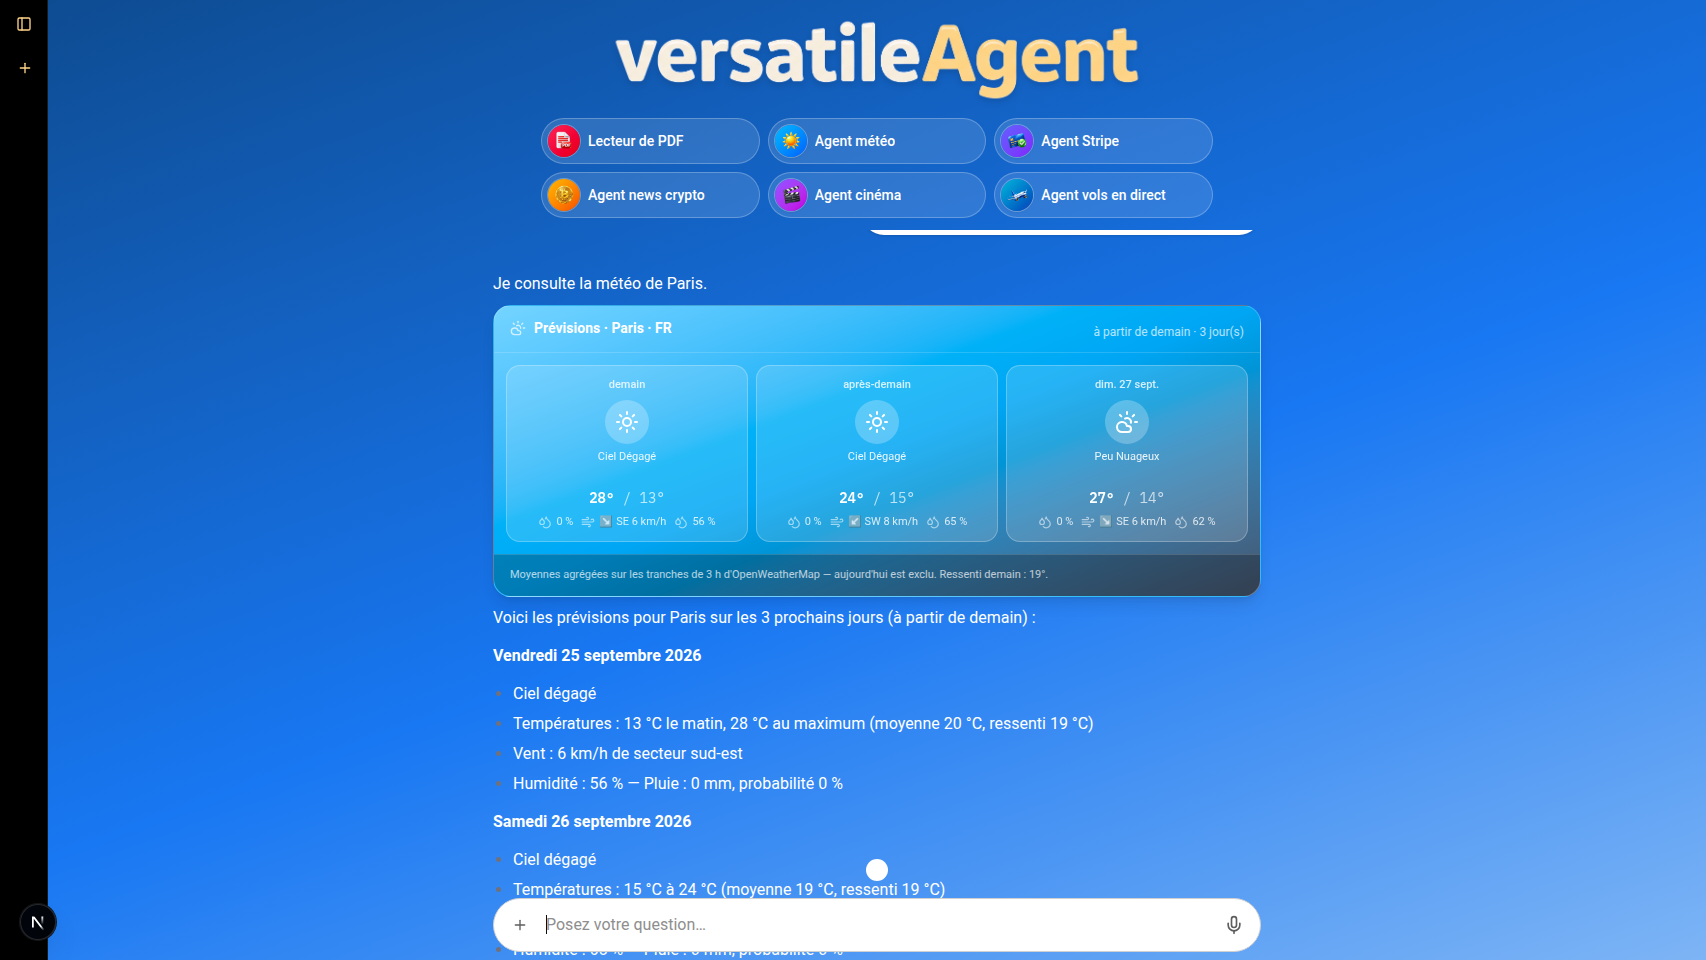
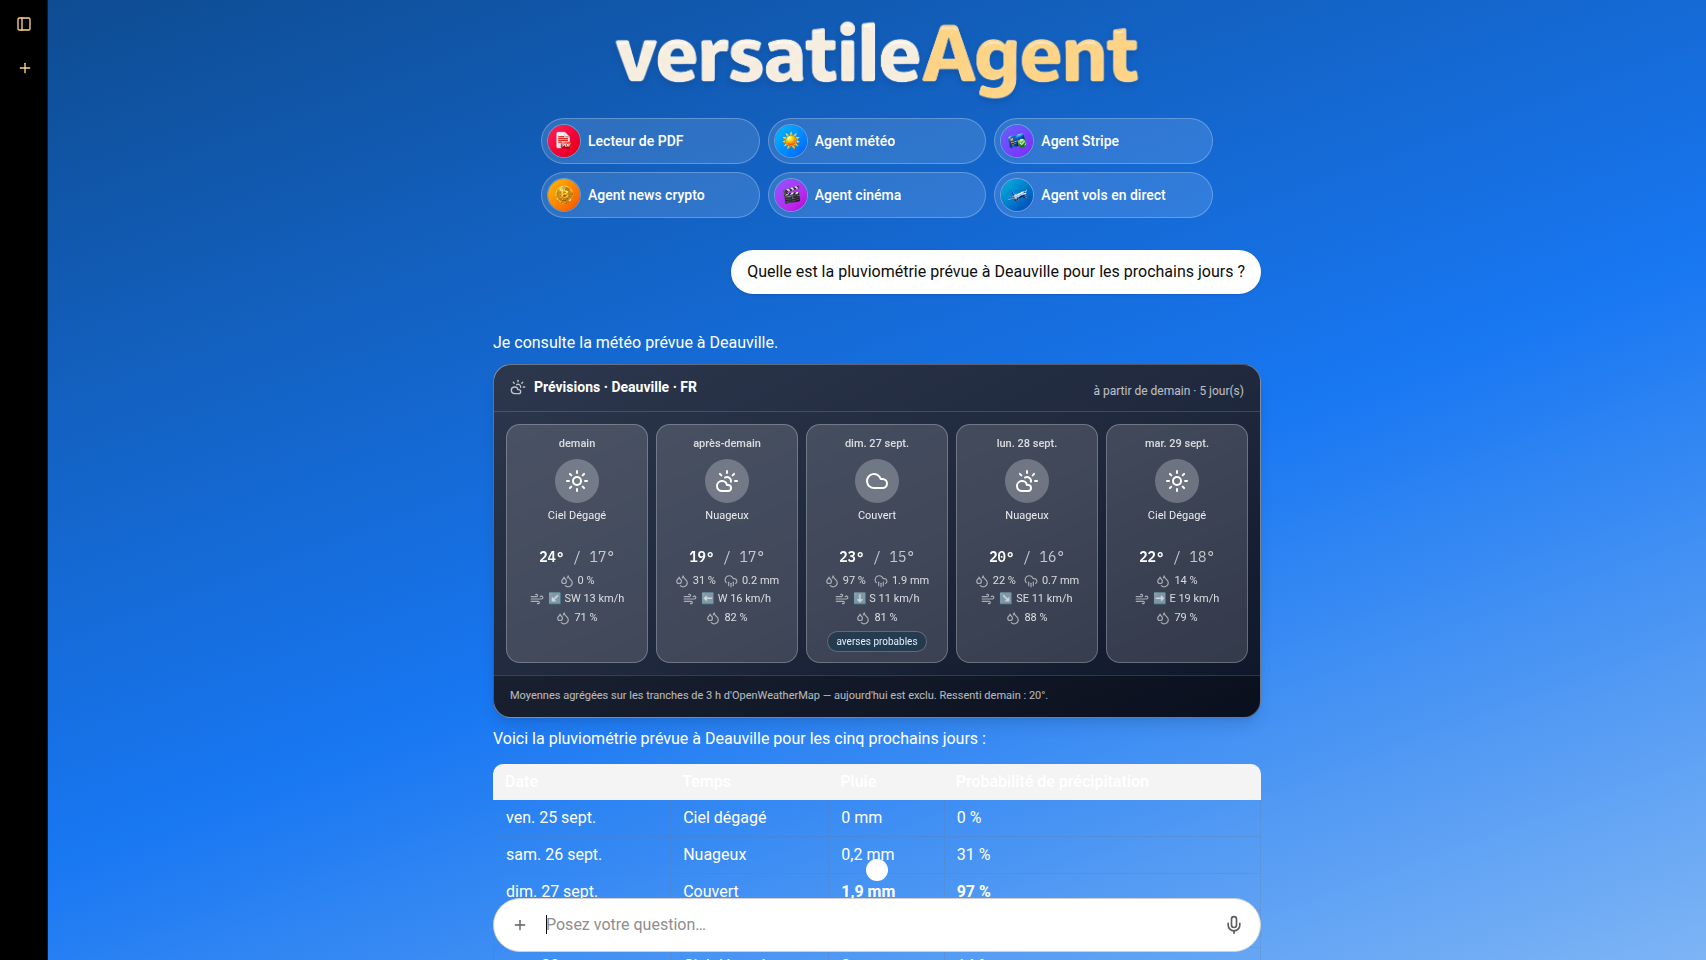
Carte meteo : voile ardoise pour trancher avec le fond, et consigne anti-redite
- la carte garde le degrade de la condition mais passe sous un voile slate-950/55,
  le rendu bleu sur fond bleu manquait de contraste
- capture generative-ui-meteo.png reprise (5 jours, valeurs de pluie) et descriptions
  du README alignees
- prompt systeme : les quatre outils a carte (meteo, vol, aeroport, cinema) ne sont plus
  recapitules en texte par le modele ; la regle 2 (preserver les valeurs numeriques)
  porte desormais l'exception, et la consigne figure aussi en tete de prompt

Changed region(s): [[0.2796, 0.2188, 0.7456, 0.9375], [0.0, 0.9375, 0.0311, 0.9688]]

diff --git a/src/agentWithTools.ts b/src/agentWithTools.ts
@@ -18,6 +18,10 @@ GENERAL BEHAVIOR:
   Aucun mot anglais : ni préambule anglais, ni ligne de statut en anglais, ni terme anglais
   isolé dans une réponse par ailleurs française.
 - Ton : respectueux, professionnel, concis.
+- Generative UI : quatre outils affichent déjà leur propre carte à l'écran (openWeatherMap —
+  météo, flightTracker — vol, airportBoard — aéroport, tmdbSearch — cinéma). Quand l'un d'eux
+  répond, le texte ne récapitule RIEN de ce que la carte montre déjà : au plus une phrase de
+  commentaire, ou une précision absente de la carte.
 - Answer directly when the user's intent is clear.
 - If the request is ambiguous, ask for clarification.
 - Never invent facts, tool results, prices, dates, or account information.
@@ -25,10 +29,16 @@ GENERAL BEHAVIOR:
 
 TOOL OUTPUT RULES:
 1. Interpret structured tool output before answering.
-2. Preserve relevant numerical values, dates, percentages, and units.
+2. Preserve relevant numerical values, dates, percentages, and units — sauf quand une carte
+   Generative UI affiche déjà ces valeurs : dans ce cas, ne les répète pas.
 3. Do not expose raw tool output unless explicitly requested.
 4. Present information naturally and clearly in French.
 5. For prices or rates, provide the current value first, then explain further if useful or requested.
+6. Four tools already render their own card in the interface (Generative UI): openWeatherMap
+   (weather), flightTracker (flight), airportBoard (airport board) and tmdbSearch (movie).
+   When one of them has answered, do NOT repeat the values its card already displays
+   (temperatures, precipitation, altitude, speed, terminals, times, rating, release date…):
+   add at most one short sentence of commentary, or an information the card does not show.
 
 WEATHER:
 - For weather-related requests, use the weather tool first.

diff --git a/assistant-ui/components/assistant-ui/elements/weather-card.aui.tsx b/assistant-ui/components/assistant-ui/elements/weather-card.aui.tsx
@@ -228,6 +228,7 @@ export const WeatherForecastStrip: FC<{ args: unknown; result: unknown }> = ({ a
       <div
         className={`relative my-2 overflow-hidden rounded-2xl border border-white/20 bg-linear-to-br text-white shadow-lg ${NEUTRAL_SKY}`}
       >
+        <span aria-hidden className="absolute inset-0 bg-slate-950/55" />
         <SkyAmbience kind="cloud" />
         <div className="relative flex items-center gap-2 border-b border-white/15 px-4 py-2.5">
           <CloudSunIcon className="size-4 text-white/70" />
@@ -249,6 +250,7 @@ export const WeatherForecastStrip: FC<{ args: unknown; result: unknown }> = ({ a
     <div
       className={`relative my-2 overflow-hidden rounded-2xl border border-white/20 bg-linear-to-br text-white shadow-lg ${surface}`}
     >
+      <span aria-hidden className="absolute inset-0 bg-slate-950/55" />
       <SkyAmbience kind={ambience} />
       <div className="relative flex flex-wrap items-baseline justify-between gap-x-3 gap-y-1 border-b border-white/15 px-4 py-3">
         <p className="flex items-center gap-2 text-sm font-semibold">

diff --git a/README.md b/README.md
@@ -20,7 +20,7 @@ _Generative UI — un rendu dédié par outil :_
 
 ![Vols — suivi en direct : anneau de progression du trajet, télémétrie et fiche appareil](assets/generative-ui-vol.png)
 
-![Météo — prévisions multi-jours : ciel piloté par la condition et ambiance animée](assets/generative-ui-meteo.png)
+![Météo — prévisions OpenWeatherMap : la carte assombrit le ciel de la condition pour trancher avec le fond bleu](assets/generative-ui-meteo.png)
 
 ![Deux outils dans un même fil — carte cinéma et carte météo, chacune rendue par son propre composant](assets/generative-ui-deux-rendus.png)
 
@@ -44,23 +44,23 @@ La migration s'est faite dans ce sens : **la v1 est passée en production sur `m
 
 ## ✨ Fonctionnalités
 
-| Capacité                  | Détail                                                                                                                                   |
-| ------------------------- | ---------------------------------------------------------------------------------------------------------------------------------------- |
-| **🧠 Agent IA**           | DeepSeek Flash (`deepseek-flash`) via `ChatDeepSeek`, cycle ReAct outillé par `createAgent()`                                            |
-| **🌤 Météo**              | Prévisions enrichies (vent, humidité, pluie, ressenti, probabilité de précipitations) via OpenWeatherMap                                 |
-| **🪙 Crypto**             | Prix et market data via CoinGecko (multi-devises, filtres catégorie / IDs, multi-timeframe, pagination)                                  |
-| **🎬 Cinéma**             | Recherche dans la base TMDB — titre, date de sortie, note, résumé localisé, URL d'affiche                                                |
-| **🔍 Recherche web**      | Recherche web via Tavily                                                                                                                 |
-| **💳 Stripe**             | Compte, solde, clients, paiements (API Stripe)                                                                                           |
-| **📄 Documents**          | Lecture PDF par URL ou fichier local (racines autorisées, plafond de taille, recherche par mot-clé avec contexte)                        |
-| **🧮 Utilitaires**        | Heure locale courante, nombre aléatoire dans un intervalle                                                                               |
-| **🧠 Mémoire long terme** | `saveMemory` / `recallMemories` via le `store` LangGraph (`MongoDBStore`), namespace `memories/<userId>`                                 |
-| **⏱ Résilience réseau**  | Échéance sur **chaque** appel sortant : 15 s par requête HTTP, 10 s × 1 retry pour Stripe, 5 s / 20 s pour MongoDB                       |
-| **💬 Chat UI**            | Interface assistant-ui (Next.js 16), appels d'outils masqués puis remplacés par la carte de l'outil rendu                                |
-| **📜 Threads**            | Historique persistant des conversations (sidebar : lister, renommer, supprimer)                                                          |
-| **🎙 Dictée vocale**      | Micro du composer (`WebSpeechDictationAdapter`) : la voix est transcrite dans le champ de saisie, en français                            |
-| **✈ Aviation**           | Vol en temps réel (`flightTracker`), départs/arrivées d'un aéroport (`airportBoard`), résolution de codes (`aviationLookup`) via AirLabs |
-| **🎨 Generative UI**      | 4 outils rendus affichent une carte dédiée — aéroport (FIDS), météo (ciel piloté par la donnée), vol (radar), cinéma (fiche séance)      |
+| Capacité                  | Détail                                                                                                                                                                                                                             |
+| ------------------------- | ---------------------------------------------------------------------------------------------------------------------------------------------------------------------------------------------------------------------------------- |
+| **🧠 Agent IA**           | DeepSeek Flash (`deepseek-flash`) via `ChatDeepSeek`, cycle ReAct outillé par `createAgent()`                                                                                                                                      |
+| **🌤 Météo**              | Prévisions enrichies (vent, humidité, pluie, ressenti, probabilité de précipitations) via OpenWeatherMap                                                                                                                           |
+| **🪙 Crypto**             | Prix et market data via CoinGecko (multi-devises, filtres catégorie / IDs, multi-timeframe, pagination)                                                                                                                            |
+| **🎬 Cinéma**             | Recherche dans la base TMDB — titre, date de sortie, note, résumé localisé, URL d'affiche                                                                                                                                          |
+| **🔍 Recherche web**      | Recherche web via Tavily                                                                                                                                                                                                           |
+| **💳 Stripe**             | Compte, solde, clients, paiements (API Stripe)                                                                                                                                                                                     |
+| **📄 Documents**          | Lecture PDF par URL ou fichier local (racines autorisées, plafond de taille, recherche par mot-clé avec contexte)                                                                                                                  |
+| **🧮 Utilitaires**        | Heure locale courante, nombre aléatoire dans un intervalle                                                                                                                                                                         |
+| **🧠 Mémoire long terme** | `saveMemory` / `recallMemories` via le `store` LangGraph (`MongoDBStore`), namespace `memories/<userId>`                                                                                                                           |
+| **⏱ Résilience réseau**  | Échéance sur **chaque** appel sortant : 15 s par requête HTTP, 10 s × 1 retry pour Stripe, 5 s / 20 s pour MongoDB                                                                                                                 |
+| **💬 Chat UI**            | Interface assistant-ui (Next.js 16), appels d'outils masqués puis remplacés par la carte de l'outil rendu                                                                                                                          |
+| **📜 Threads**            | Historique persistant des conversations (sidebar : lister, renommer, supprimer)                                                                                                                                                    |
+| **🎙 Dictée vocale**      | Micro du composer (`WebSpeechDictationAdapter`) : la voix est transcrite dans le champ de saisie, en français                                                                                                                      |
+| **✈ Aviation**           | Vol en temps réel (`flightTracker`), départs/arrivées d'un aéroport (`airportBoard`), résolution de codes (`aviationLookup`) via AirLabs                                                                                           |
+| **🎨 Generative UI**      | 4 outils rendus affichent une carte dédiée — aéroport (FIDS), météo (ciel piloté par la donnée), vol (radar), cinéma (fiche séance) — et le prompt système interdit au modèle de recopier les valeurs déjà affichées par une carte |
 
 ### 🎙 Dictée vocale — deux contraintes
 
@@ -219,12 +219,12 @@ tool_call "airportBoard" ──► graphe LangGraph (src/tools/*) ──► payl
 dans le bundle client. Les outils sans rendu dédié retombent sur `tool-fallback.aui.tsx` — la carte
 n'apparaît pas, la réponse de l'agent reste.
 
-| Outil            | Carte                     | Ce qui pilote le rendu                                                                                                                                                                                                                       |
-| ---------------- | ------------------------- | -------------------------------------------------------------------------------------------------------------------------------------------------------------------------------------------------------------------------------------------- |
-| `airportBoard`   | Tableau d'aéroport (FIDS) | Noir ardoise et rail ambre, heures en `font-mono`, états en pastilles (posé / parti, retardé, annulé), codeshares fusionnés sur la ligne du vol réellement opéré                                                                             |
-| `openWeatherMap` | Météo multi-jours         | **Le ciel suit la donnée** : la carte prend le dégradé de la condition la plus marquante des jours affichés — rais de lumière sur ciel dégagé, rideau de pluie, flocons ou flash d'orage selon la météo                                      |
-| `flightTracker`  | Suivi de vol              | Tracé pointillé parcouru par un point lumineux animé, **anneau de progression** du trajet (82 % sur la capture), tuiles de télémétrie (position, altitude, vitesse, cap) et fiche appareil (immatriculation, code hex, dernier signal ADS-B) |
-| `tmdbSearch`     | Fiche séance cinéma       | Affiche TMDB, année en très gros et « sorti il y a N ans », anneau de note coloré par le score, accent **par époque** (classique / argentique / moderne / numérique), vignettes des autres résultats                                         |
+| Outil            | Carte                     | Ce qui pilote le rendu                                                                                                                                                                                                                                                    |
+| ---------------- | ------------------------- | ------------------------------------------------------------------------------------------------------------------------------------------------------------------------------------------------------------------------------------------------------------------------- |
+| `airportBoard`   | Tableau d'aéroport (FIDS) | Noir ardoise et rail ambre, heures en `font-mono`, états en pastilles (posé / parti, retardé, annulé), codeshares fusionnés sur la ligne du vol réellement opéré                                                                                                          |
+| `openWeatherMap` | Météo multi-jours         | **Le ciel suit la donnée** : le dégradé de la condition la plus marquante des jours affichés passe sous un voile ardoise très sombre qui tranche avec le fond bleu de la page — rais de lumière sur ciel dégagé, rideau de pluie, flocons ou flash d'orage selon la météo |
+| `flightTracker`  | Suivi de vol              | Tracé pointillé parcouru par un point lumineux animé, **anneau de progression** du trajet (82 % sur la capture), tuiles de télémétrie (position, altitude, vitesse, cap) et fiche appareil (immatriculation, code hex, dernier signal ADS-B)                              |
+| `tmdbSearch`     | Fiche séance cinéma       | Affiche TMDB, année en très gros et « sorti il y a N ans », anneau de note coloré par le score, accent **par époque** (classique / argentique / moderne / numérique), vignettes des autres résultats                                                                      |
 
 ### Captures
 
